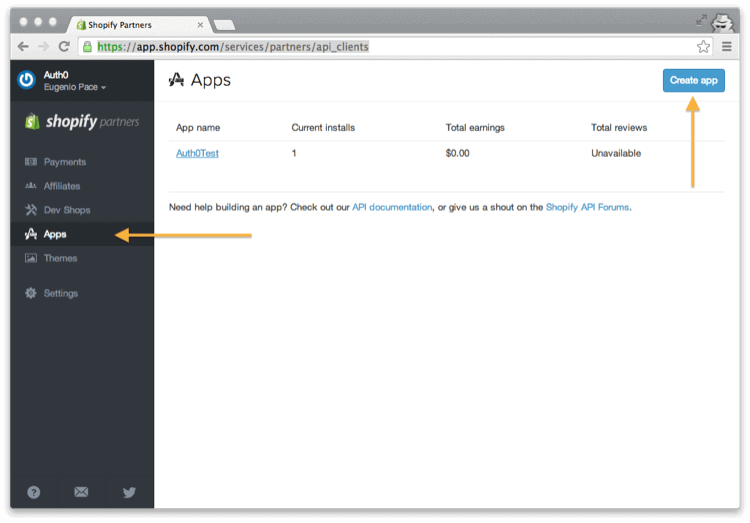
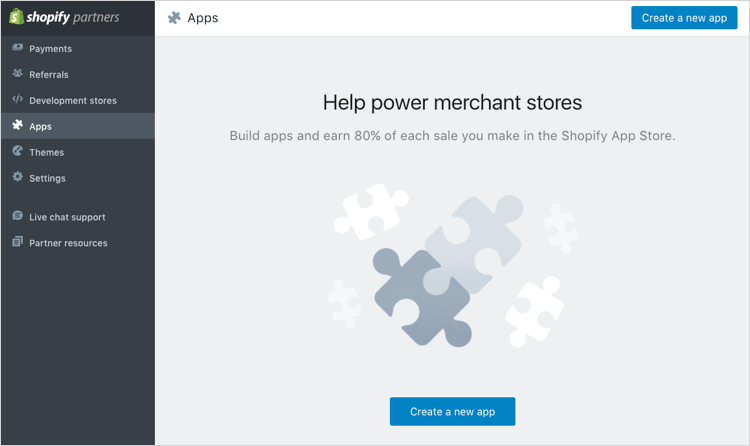
[update] Shopify connection - updated instructions, all new screenshots

diff --git a/articles/connections/social/shopify.md b/articles/connections/social/shopify.md
@@ -2,35 +2,86 @@
 connection: Shopify
 image: /media/connections/shopify.png
 seo_alias: shopify
+description: How to connect your Auth0 app to Shopify.
 ---
 
-# Obtaining a API Key and Shared Secret for Shopify
+# Connect your app to Shopify
 
-To configure Shopify OAuth2 connections, you will need to register Auth0 with Shopify on their [partner portal](https://app.shopify.com/services/partners/auth/login).
+To connect your Auth0 app to Shopify, you will need to create an app on the Shopify Partner portal to generate  *API Key* and *Shared Secret*, copy these credentials into your Auth0 settings, and enable the connection.
 
-### 1. Create an App on the Partner Portal
-Go to the [partner portal](https://app.shopify.com/services/partners), and login with your WordPress credentials. Select __Apps__ and click on __Create app__:
+### 1. Create an app on the Shopify Partner portal
+
+Login to the [Shopify Partner](https://app.shopify.com/services/partners) portal. Select **Apps** in the left nav and click **Create a new app**:
 
 ![](/media/articles/connections/social/shopify/shopify-devportal-1.png)
 
----
 
-### 2. Complete information about your instance of Auth0
+### 2. Create your app
 
-Create a new application and complete the form. Use this URL as your callback:
+Complete the form. 
 
-	https://${account.namespace}/login/callback
+In the fields below, enter the following:
+
+* **App URL**: `https://YOUR_TENANT.auth0.com`
+* **Redirection URL**: `https://YOUR_TENANT.auth0.com/login/callback`
 
 ![](/media/articles/connections/social/shopify/shopify-devportal-2.png)
 
----
+Click **Create app**.
 
-### 4. Get your API Key and Shared Secret
+### 3. Get your API Key and Shared Secret
 
-Once the application is registered, enter your new `API Key` and `Shared Secret` into the connection settings in Auth0.
+On the page that follows, your `API Key` and `Shared Secret` will be displayed. Save these for use in the next step.
 
----
+![](/media/articles/connections/social/shopify/shopify-devportal-3.png)
 
-## Shopify Multipass
+### 4. Enter your API Key and Shared Secret into Auth0
 
+In a separate window, go to the [Connections > Social](${uiURL}/#/connections/social) section of the Auth0 Dashboard.
+
+Select Shopify:
+
+![](/media/articles/connections/social/shopify/shopify-devportal-4.png)
+
+Copy the `API Key` and `Shared Secret` from the Apps page on Shopify into the fields on this page on Auth0.
+
+Enter your **Shop name**. 
+
+Select the **Permissions** you want to enable.
+
+Click **SAVE**.
+
+![](/media/articles/connections/social/shopify/shopify-devportal-5.png)
+
+### 5. Enable the Connection
+
+Go to the **Apps** tab of the Shopify connection on Auth0 and select each of your existing Auth0 apps for which you want to enable this connection:
+
+![](/media/articles/connections/social/shopify/shopify-devportal-6.png)
+
+### 6. Test the connection
+
+Close the Settings window to return to the **Connections > Social** section of the Auth0 dashboard.
+
+A TRY icon will now be displayed next to the Shopify logo:
+
+![](/media/articles/connections/social/shopify/shopify-devportal-7.png)
+
+Click TRY.
+
+Login to your Shopify store.
+
+Click **Install app** to allow your app access.
+
+![](/media/articles/connections/social/shopify/shopify-devportal-8.png)
+
+If you have configured everything correctly, you will see the It works!!! page:
+
+![](/media/articles/connections/social/shopify/shopify-devportal-9.png)
+
+::: panel-info Shopify Multipass
 You may use Shopify's [Multipass](https://help.shopify.com/api/reference/multipass) feature to automatically authenticate users who have already been verified by Auth0 on Shopify.
+:::
+ 
+
+
